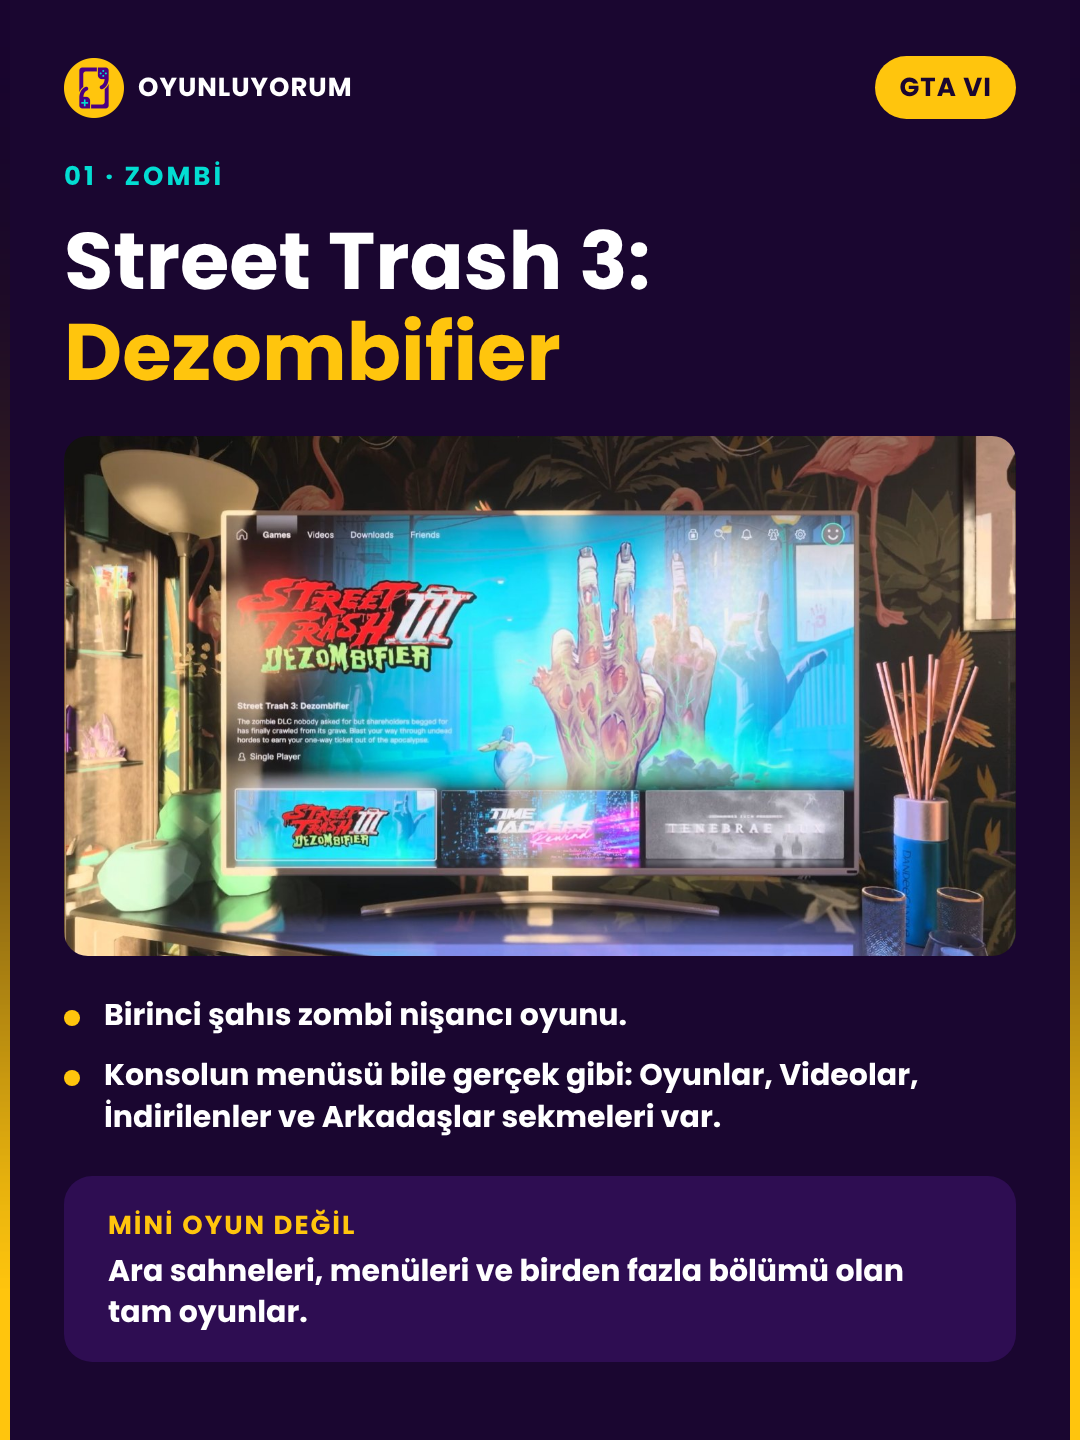
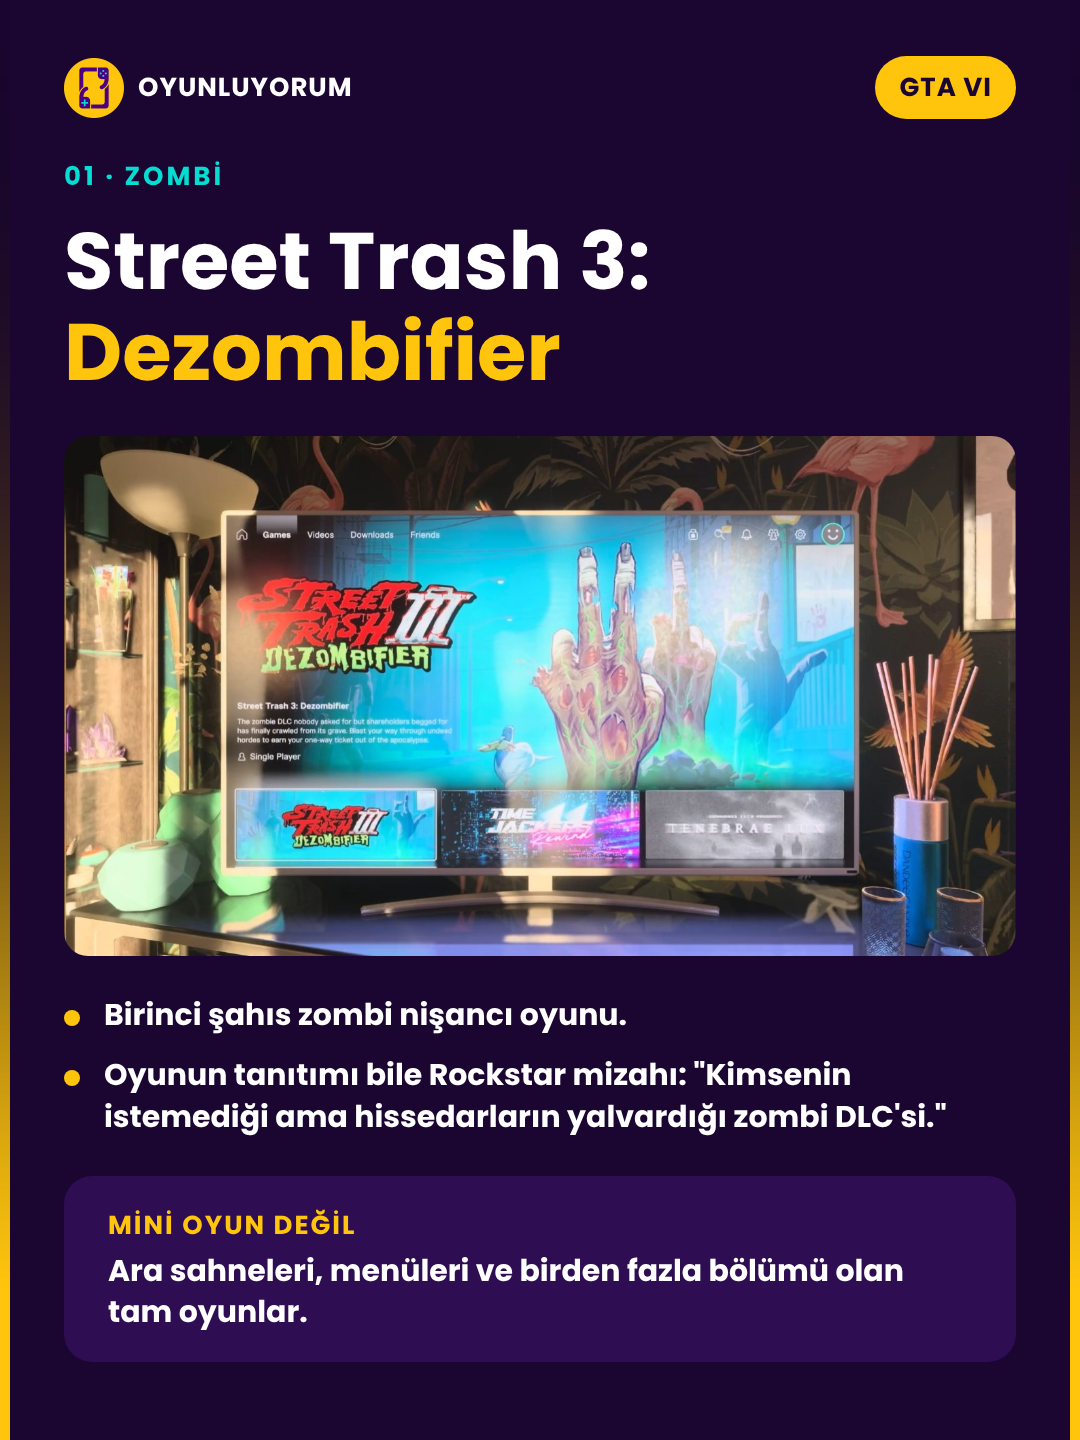
Konsol karuseli: DLC esprisi, Time Jackers düzeltmesi
Claude-Session: https://claude.ai/code/session_01Cfy9VgEXWVL5ta7MT2PpLs

Changed region(s): [[0.0917, 0.7188, 0.8556, 0.8125]]

diff --git a/posts/2026-11-19-gta6-konsol/aciklama.md b/posts/2026-11-19-gta6-konsol/aciklama.md
@@ -9,7 +9,7 @@ Görseller: Digital Foundry videosundan kareler (X, @TheGameVerse paylaşımı)
 
 GTA 6'nın içinde koca bir oyun konsolu var 🎮 Evdeki JoySystem'i açıyorsun ve mini oyun değil, ara sahnesi, menüsü, bölümleri olan tam oyunlar oynuyorsun.
 
-Zombi nişancısı Street Trash 3, indie oyunlarla dalga geçen Tenebrae Lux, yukarıdan bakışlı Time Hackers Rewind ve plastik tüfekle oynanan bir av oyunu. Hepsini Rockstar'ın içindeki ayrı bir ekip yapmış 👇
+Zombi nişancısı Street Trash 3, indie oyunlarla dalga geçen Tenebrae Lux, yukarıdan bakışlı Time Jackers Rewind ve plastik tüfekle oynanan bir av oyunu. Hepsini Rockstar'ın içindeki ayrı bir ekip yapmış 👇
 
 Kaydet, oyuna girince ilk bunu dene. Oyunda oyun oynamayı seven arkadaşına da gönder 📩
 
